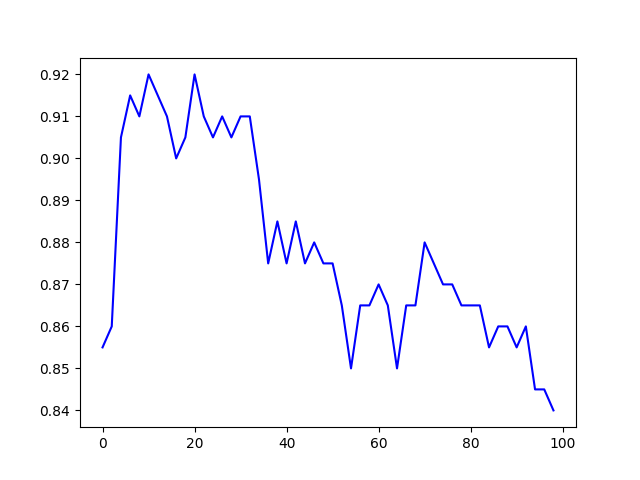
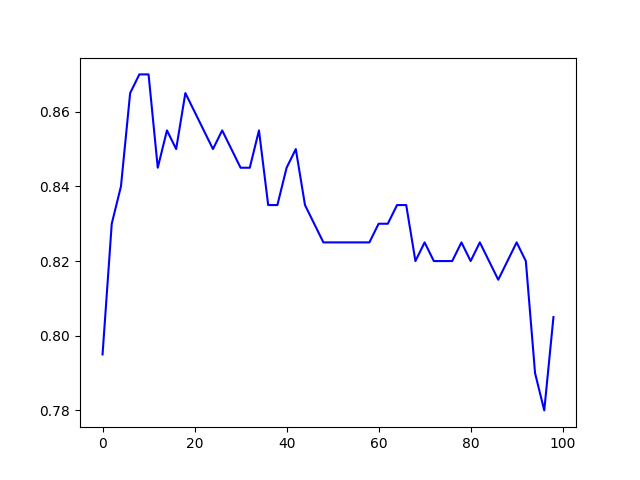
Commit to gitpod

diff --git a/test_algs.py b/test_algs.py
@@ -2,11 +2,12 @@ import matplotlib.pyplot as plt
 from sklearn.neighbors import KNeighborsClassifier
 import random
 from sklearn import tree
+from sklearn.ensemble import RandomForestRegressor
 # import sklearn
 
 data=[]
 colors=[]
-centers=[[1,3,"bo"],[3,1,"bo"],[1,1,"r+"],[3,3,"r+"]]
+centers=[[1,3,0],[3,1,0],[1,1,1],[3,3,1]]
 # colors=["r+","bo"]
 for sector in centers:
   for x in range(50):
@@ -21,31 +22,67 @@ for sector in centers:
 
 test_data=[]
 test_colors=[]
-centers=[[1,3,"bo"],[3,1,"bo"],[1,1,"r+"],[3,3,"r+"]]
+centers=[[1,3,0],[3,1,0],[1,1,1],[3,3,1]]
 # colors=["r+","bo"]
 for sector in centers:
   for x in range(50):
     test_data.append([sector[0]+random.randint(-11,11)/10,sector[1]+random.randint(-11,11)/10])
     test_colors.append(sector[2])
 
-accuracy=[]
+# accuracy=[]
+# tally=[[],[]]
+# for k in range(50):
+#   # print(len(data))
+#   # print(len(colors))
+#   neigh = KNeighborsClassifier(n_neighbors=(k+1)*2)
+#   neigh.fit(data,colors)
+#   count=0
+#   for n in range(200):
+#     if neigh.predict([test_data[n]]) == test_colors[n]:
+#       count+=1
+#   # print(k)
+#   # print(count)
+#   tally[0].append(count/200)
+#   tally[1].append(k*2)
+#   # print(count/200)
+# plt.plot(tally[1],tally[0],"b")
+# plt.savefig("knn data")
+
+
+
+# tally=[[],[]]
+# for k in range(48):
+#   # print(len(data))
+#   # print(len(colors))
+#   clf = tree.DecisionTreeClassifier(min_samples_split=k+2)
+#   clf = clf.fit(data, colors)
+#   count=0
+#   for n in range(200):
+#     if clf.predict([test_data[n]]) == test_colors[n]:
+#       count+=1
+#   # print(k)
+#   # print(count)
+#   tally[0].append(count/200)
+#   tally[1].append(k*2)
+#   # print(count/200)
+# plt.plot(tally[1],tally[0],"b")
+# plt.savefig("DTC data")
+
+
+
+
 tally=[[],[]]
-for k in range(50):
+for k in range(48):
   # print(len(data))
   # print(len(colors))
-  neigh = KNeighborsClassifier(n_neighbors=(k+1)*2)
-  neigh.fit(data,colors)
+  regr = RandomForestRegressor(n_estimators=k+2)
+  regr.fit(data, colors)
   count=0
   for n in range(200):
-    if neigh.predict([test_data[n]]) == test_colors[n]:
+    if regr.predict([test_data[n]]) == test_colors[n]:
       count+=1
-  # print(k)
-  # print(count)
   tally[0].append(count/200)
   tally[1].append(k*2)
   # print(count/200)
 plt.plot(tally[1],tally[0],"b")
-plt.savefig("knn data")
-
-clf = tree.DecisionTreeClassifier()
-clf = clf.fit(X, Y)
+plt.savefig("Rand Forest data")
